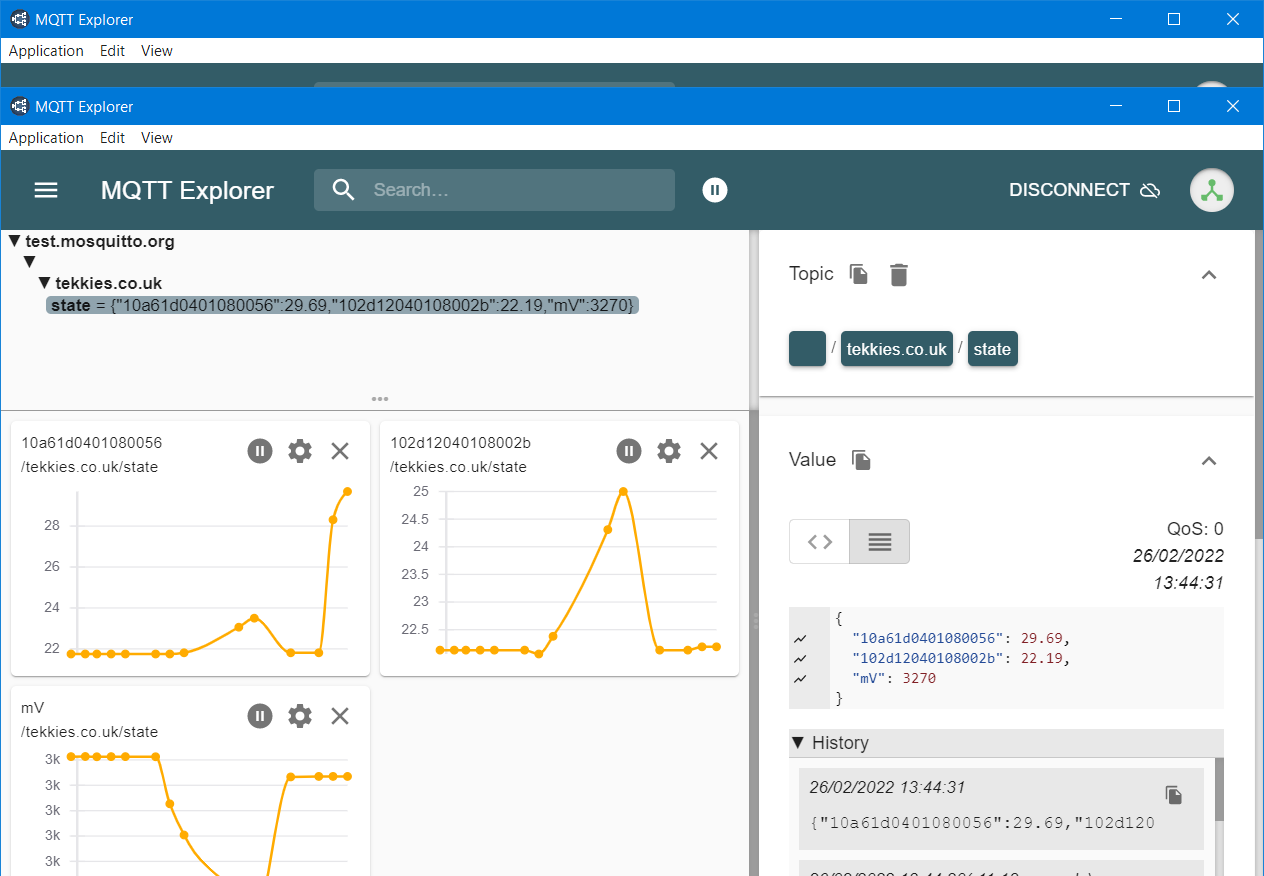
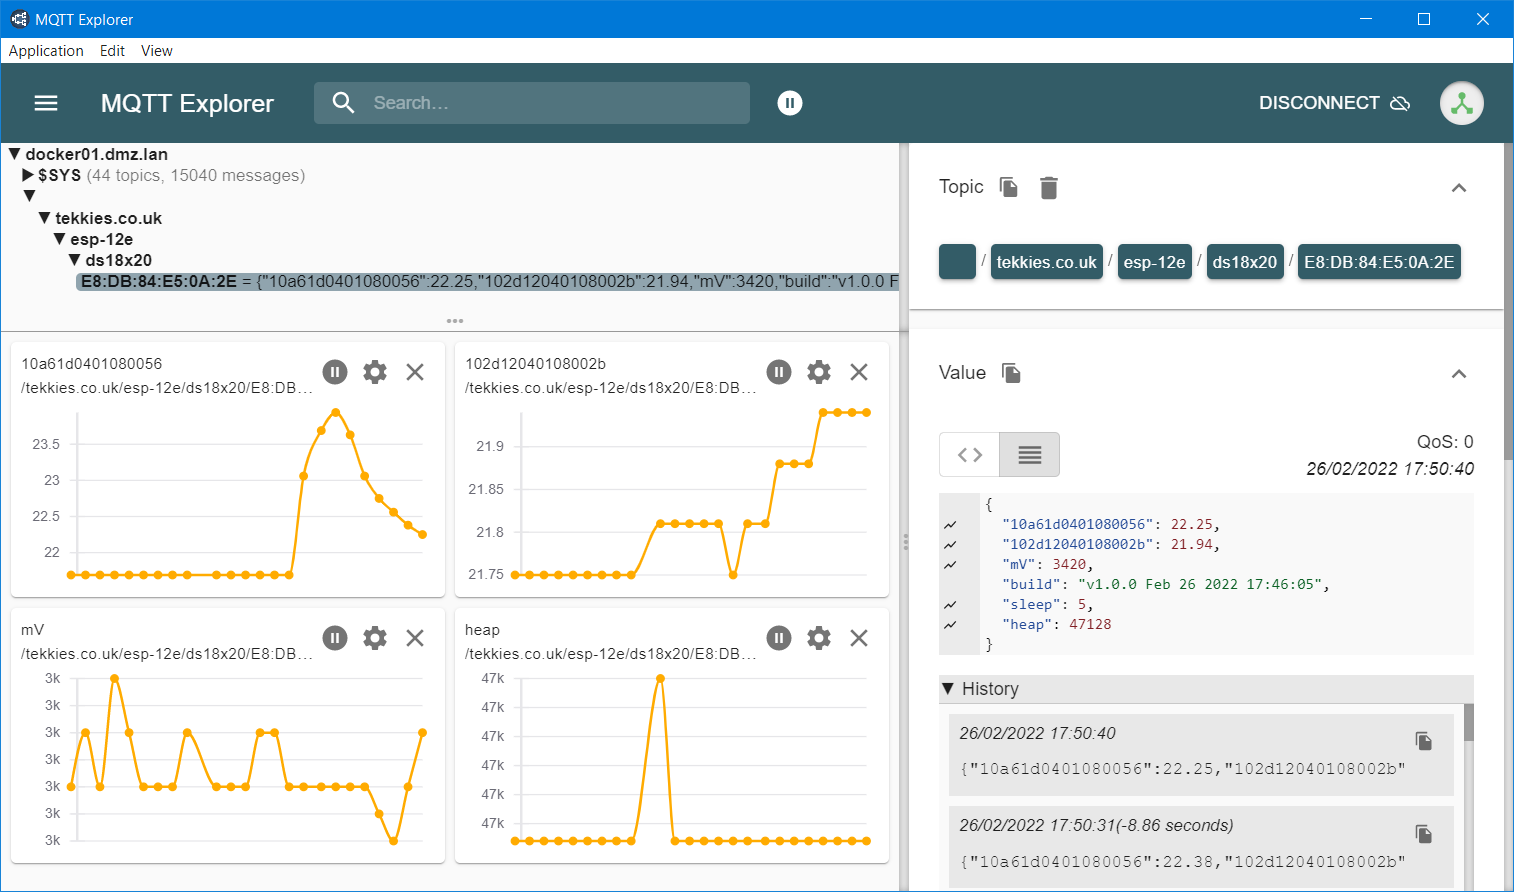
Update MQTT Explorer screenshot

diff --git a/README.md b/README.md
@@ -9,6 +9,9 @@ Low power ESP8266 MQTT OneWire Temperature Sensor using DS18B20
 
 ![Installed](doc/photo-installed.jpg)
 
+![MQTT Explorer](doc/mqtt-explorer-screenshot.png)
+
+
 ## Circuit 
 ![Circuit](board/ESP-12E-OneWire-TinyCAD.png)
 
